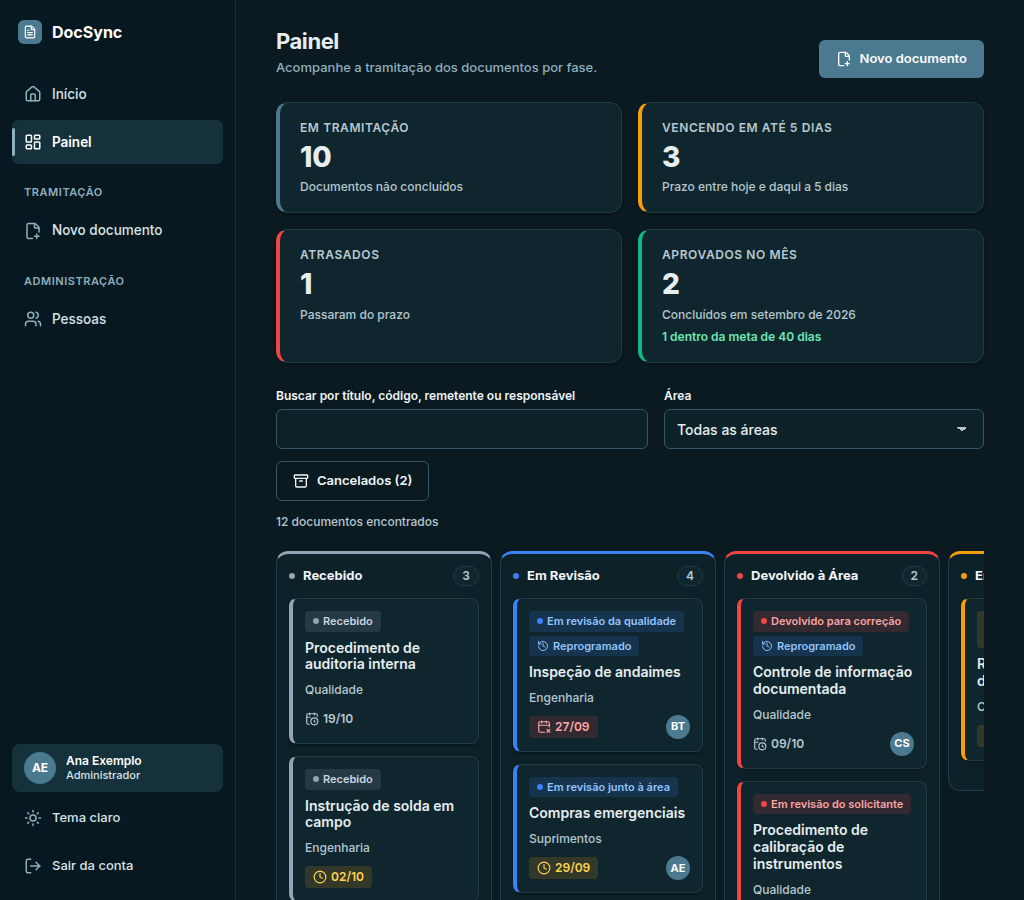
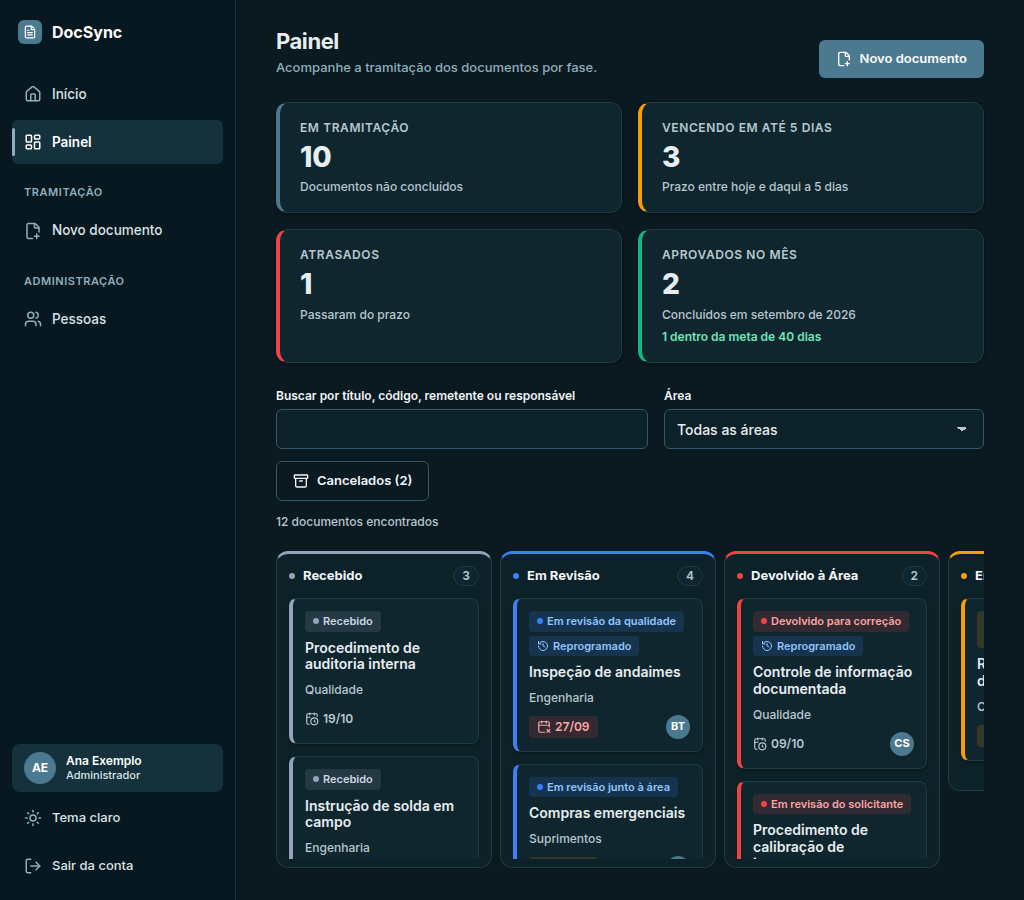
F5: correções pós-QA (rodapé enxuto, quadro com a altura da janela, ajustes)
Claude-Session: https://claude.ai/code/session_01B3gkGo9nqbChhhVxVZNRHD

diff --git a/apps/web/e2e/vitrine/vitrine.tsx b/apps/web/e2e/vitrine/vitrine.tsx
@@ -50,7 +50,7 @@ import { aplicarTema, temaSalvo } from '../../src/tema.ts';
 
 const parametros = new URLSearchParams(location.search);
 // ?perfil=Leitor|Solicitante muda o perfil simulado; ?envio=falha faz o 1º envio falhar (sem conexão).
-// Painel: ?painel=vazio|erro|carregando; ?reprog=conflito faz a 1ª reprogramação dar 409 conflito_versao.
+// Painel: ?painel=vazio|erro|carregando|muitos (muitos = 40 cartões a mais em Recebido, para a rolagem por coluna); ?reprog=conflito faz a 1ª reprogramação dar 409 conflito_versao.
 // Detalhes (F4): ?rota=/painel?documento=DOC-P6 abre direto; ?detalhes=erro|404|carregando; ?download=erro.
 // Status (F5): ?status=conflito faz a 1ª etapa dar 409 conflito_versao; ?responsaveis=erro faz a lista falhar
 // uma vez; ?desfazer=conflito faz o "Desfazer" dar 409.
@@ -116,7 +116,11 @@ let cartoes: CartaoPainel[] = modoPainel === 'vazio' ? [] : [
   cartao(1, 'PR-QUA-0010', 'Procedimento de auditoria interna', 'Recebido', qualidade, 20),
   cartao(2, null, 'Instrução de solda em campo', 'Recebido', engenharia, 3),
   cartao(3, null, 'Plano de emergência importado', 'Recebido', suprimentos, null),
-  cartao(4, 'IT-ENG-0042', 'Inspeção de andaimes', 'Em revisão da qualidade', engenharia, -2, { reprogramado: true, qtdReprogramacoes: 1, dataInicioRevisao: somarDias(HOJE, -4), ...resp('p2') }),
+  cartao(4, 'IT-ENG-0042', 'Inspeção de andaimes', 'Em revisão da qualidade', engenharia, -2, {
+    // Coerente com a regra (0011/0015): recebido há 40 dias, prazo original (recebimento + 30) venceu
+    // há 10 dias, reprogramado depois de vencido para 2 dias atrás, que também já passou.
+    dataRecebimento: somarDias(HOJE, -40), reprogramado: true, qtdReprogramacoes: 1, dataInicioRevisao: somarDias(HOJE, -38), ...resp('p2'),
+  }),
   cartao(5, 'PR-SUP-0003', 'Compras emergenciais', 'Em revisão junto à área', suprimentos, 0, { dataInicioRevisao: somarDias(HOJE, -12), ...resp('p1') }),
   cartao(6, 'PR-QUA-0007', 'Controle de informação documentada', 'Devolvido para correção', qualidade, 10, {
     qtdDevolucoes: 2, reprogramado: true, qtdReprogramacoes: 2, dataRecebimento: '2026-09-01', dataInicioRevisao: '2026-09-02', ...resp('p5'),
@@ -132,6 +136,9 @@ let cartoes: CartaoPainel[] = modoPainel === 'vazio' ? [] : [
   cartao(9, 'AT-COM-0001', 'Ata da reunião de análise crítica', 'Cancelado', comercial, 4, { statusAntesDoCancelamento: 'Em revisão da qualidade', ...resp('p2') }),
   cartao(10, null, 'Formulário antigo de entrega de EPI', 'Cancelado', suprimentos, null),
 ];
+if (modoPainel === 'muitos') {
+  for (let n = 101; n <= 140; n += 1) cartoes.push(cartao(n, null, `Documento de volume ${n - 100}`, 'Recebido', qualidade, 20));
+}
 function documentoDoCartao(c: CartaoPainel): Documento {
   return {
     ...documento(0, c.codigo, c.titulo, c.status, areas.find((a) => a.id === c.areaId)!),
@@ -195,6 +202,18 @@ eventosPorDocumento.set('DOC-P6', [
   evento('DOC-P6', 'REPROGRAMACAO', 'Devolvido para correção', null, '2026-09-16T12:45:00Z', 'Ana Exemplo', {
     detalhes: [{ campo: 'dataRevisao', antes: '2026-10-05', depois: '2026-10-09' }],
     observacao: 'Nova devolução: prazo ajustado para a correção da tabela.',
+  }),
+]);
+eventosPorDocumento.set('DOC-P4', [
+  evento('DOC-P4', 'CRIACAO', 'Recebido', null, `${somarDias(HOJE, -40)}T12:00:00Z`, 'Ana Exemplo', {
+    detalhes: [{ campo: 'dataRevisao', antes: null, depois: somarDias(HOJE, -10) }],
+  }),
+  evento('DOC-P4', 'STATUS', 'Em revisão da qualidade', 'Recebido', `${somarDias(HOJE, -38)}T13:00:00Z`, 'Bruno Teste', {
+    responsavel: 'Bruno Teste', responsavelId: 'p2',
+  }),
+  evento('DOC-P4', 'REPROGRAMACAO', 'Em revisão da qualidade', null, `${somarDias(HOJE, -9)}T14:00:00Z`, 'Bruno Teste', {
+    detalhes: [{ campo: 'dataRevisao', antes: somarDias(HOJE, -10), depois: somarDias(HOJE, -2) }],
+    observacao: 'A área de Engenharia pediu mais uma semana para anexar os laudos.',
   }),
 ]);
 eventosPorDocumento.set('DOC-P9', [

diff --git a/apps/web/e2e/painel.spec.ts b/apps/web/e2e/painel.spec.ts
@@ -253,3 +253,30 @@ test.describe('toque emulado em 768px', () => {
     }
   });
 });
+
+// Decisão 0015 item 4 (Planner): com muitos cartões, só a coluna rola na vertical; a página não.
+for (const largura of [768, 1440]) {
+  test(`rolagem por coluna em ${largura}px: a página não rola na vertical por causa do quadro`, async ({ page }) => {
+    await abrir(page, { largura, extra: '&painel=muitos' });
+    const quadro = page.getByRole('region', { name: 'Quadro de tramitação' });
+    await expect(quadro).not.toHaveAttribute('aria-busy', 'true');
+    await expect(quadro.getByRole('article', { name: 'Documento de volume 40' })).toBeAttached();
+    const medidas = await page.evaluate(() => {
+      const pagina = document.scrollingElement!;
+      const quadro = document.querySelector('[aria-label="Quadro de tramitação"]')!;
+      const listas = Array.from(quadro.querySelectorAll('ul, ol')).filter((l) => l.scrollHeight > l.clientHeight);
+      return {
+        rolagemPagina: pagina.scrollHeight - pagina.clientHeight,
+        rolagemVerticalQuadro: quadro.scrollHeight - quadro.clientHeight,
+        colunasRolando: listas.length,
+        fundoQuadro: quadro.getBoundingClientRect().bottom,
+        alturaJanela: window.innerHeight,
+      };
+    });
+    expect(medidas.rolagemPagina).toBe(0);
+    expect(medidas.rolagemVerticalQuadro).toBeLessThanOrEqual(0);
+    expect(medidas.colunasRolando).toBeGreaterThanOrEqual(1);
+    expect(medidas.fundoQuadro).toBeLessThanOrEqual(medidas.alturaJanela);
+    await semRolagemHorizontal(page);
+  });
+}

diff --git a/apps/web/src/telas/TelaPainel.module.css b/apps/web/src/telas/TelaPainel.module.css
@@ -1,5 +1,17 @@
 /* Tela Painel (contrato F3, seção 5), no estilo Vigen (decisão 0009). */
 
+/* Tela de altura cheia (decisão 0015 item 4): cabeçalho, KPIs e filtros no topo; o quadro fica com o resto. */
+.tela {
+  display: flex;
+  flex-direction: column;
+  flex: 1 1 auto;
+  min-height: 0;
+}
+
+.tela > * {
+  flex-shrink: 0;
+}
+
 /* Quatro KPIs (P-12, P-13): rótulo, valor e subtítulo coerentes. 4 → 2 → 1 colunas, só CSS. */
 .kpis {
   display: grid;
@@ -118,11 +130,19 @@
  * Quadro: 5 colunas com largura mínima (--kanban-coluna-min). Quando não cabem (tablet e telas
  * estreitas), o quadro rola na horizontal POR DENTRO; a página nunca rola (decisão 0005).
  */
+.tela > .quadro {
+  flex-shrink: 1;
+}
+
 .quadro {
   /* Ancestral posicionado: textos "visualmente-oculto" (absolute) ficam presos ao recorte do quadro. */
   position: relative;
   display: grid;
   grid-template-columns: repeat(5, minmax(var(--kanban-coluna-min), 1fr));
+  /* Uma linha com a altura do quadro: a coluna usa max-height: 100% e rola por dentro. */
+  grid-template-rows: minmax(0, 1fr);
+  flex: 1 1 0;
+  min-height: var(--kanban-coluna-altura-min);
   align-items: start;
   gap: var(--space-2);
   width: 100%;

diff --git a/apps/web/src/estilos/tokens.css b/apps/web/src/estilos/tokens.css
@@ -185,8 +185,8 @@
   /* Painel Kanban (F3): colunas com largura mínima; o quadro rola por dentro quando não cabem. */
   --kanban-coluna-min: 216px;
   --kanban-coluna-altura-min: 240px;
-  /* F5 (decisão 0015): cada coluna rola por dentro; a altura acompanha a janela, nunca o número de cartões. */
-  --kanban-coluna-altura-max: calc(100vh - var(--space-8));
+  /* F5 (decisão 0015): a coluna ocupa no máximo a altura do quadro (que é o que sobra da janela) e rola por dentro. */
+  --kanban-coluna-altura-max: 100%;
   --avatar-cartao: 24px;
   --kpi-valor: 28px;
   --esqueleto-cartao: 96px;

diff --git a/apps/web/src/telas/Casca.module.css b/apps/web/src/telas/Casca.module.css
@@ -208,6 +208,17 @@
   padding: var(--space-7) var(--space-10) var(--space-15);
 }
 
+/*
+ * Telas de altura cheia (Painel, decisão 0015 item 4): o conteúdo ocupa exatamente a janela e a
+ * tela distribui a altura por flex (min-height: 0 até o quadro); só as colunas rolam na vertical.
+ */
+.conteudo:has(> [data-altura-cheia]) {
+  display: flex;
+  flex-direction: column;
+  height: 100dvh;
+  padding-bottom: var(--space-6);
+}
+
 /* 04, 4.3: abaixo de 860px, 76px e só ícones. Texto oculto só visualmente. */
 @media (max-width: 860px) {
   .barra {

diff --git a/apps/web/src/telas/TelaPainel.tsx b/apps/web/src/telas/TelaPainel.tsx
@@ -338,7 +338,7 @@ export function TelaPainel() {
   const podeCadastrar = podeCadastrarDocumento(eu);
 
   return (
-    <>
+    <div className={estilos.tela} data-altura-cheia="">
       <header className={pagina.cabecalho}>
         <div className={pagina.cabecalhoTexto}>
           <h1 ref={titulo} className={pagina.titulo} tabIndex={-1}>
@@ -467,7 +467,7 @@ export function TelaPainel() {
         aoReativar={documentoReativado}
       />
 
-    </>
+    </div>
   );
 }
 

diff --git a/apps/web/src/componentes/ColunaKanban.module.css b/apps/web/src/componentes/ColunaKanban.module.css
@@ -41,6 +41,7 @@
   font-size: var(--fs-body-sm);
   font-weight: var(--fw-bold);
   color: var(--text-strong);
+  flex-shrink: 0;
 }
 
 .rotulo {
@@ -83,10 +84,6 @@
   font-weight: var(--fw-semibold);
   color: var(--text-secondary);
   text-align: center;
-}
-
-.titulo {
-  flex-shrink: 0;
 }
 
 /*

diff --git a/CLAUDE.md b/CLAUDE.md
@@ -85,7 +85,7 @@ Toda decisão de arquitetura, tecnologia, modelo de dados ou escopo vira um arqu
 - **Painel (F3, [contrato](docs/contratos/f3-painel-kanban.md)):** `GET /painel` com query fechada; KPIs, filtro e etiquetas de prazo por funções puras em `packages/compartilhado/src/painel.ts`, as mesmas na API e na tela; a tela carrega uma vez e filtra no cliente com `filtrarCartoes`. Largura mínima da coluna do Kanban no token `--kanban-coluna-min`. Contratos de fatia ficam em `docs/contratos/` e são aprovados pelo Eric antes do código.
 - **Arquivos na entrega (F4, decisão [0014](docs/decisoes/0014-download-nome-e-versoes-de-arquivo.md), contrato seções 10–11):** sem marca d'água nem visualizador; `baixarArquivo` para Administrador, Qualidade e Solicitante da área (Leitor não); HEAD desligado; `GET /documentos/:id` devolve `DetalheDocumento` (`arquivos`, `eventos`, `hoje`); download `GET /documentos/:id/arquivos/:arquivoId` só por `ArmazenamentoArquivos`, com ação `baixarArquivo` e `arquivoId` sempre conferido contra o documento; conteúdo entregue byte a byte como foi gravado. Nome do principal só por `nomeDownloadPrincipal` (`packages/compartilhado/src/documentos.ts`); anexos com o nome original. Cabeçalhos só por `cabecalhosDownload` (tipo pela extensão, nunca pelo `tipo_mime` gravado; `nosniff`, `no-store`, CSP sandbox). Cada entrega grava um registro imutável em `registros_acesso_arquivos` (`ACS-uuid`, autor do token; tipo `VISUALIZACAO` previsto na migração 0004 e sem uso). Linha do tempo só por `descreverEvento` (`packages/compartilhado/src/historico.ts`).
 - **Cartão do Kanban (decisão [0015](docs/decisoes/0015-cartao-estilo-planner.md)):** estilo Planner, sem botões: etiquetas, título, área, rodapé com prazo (neutro/laranja/vermelho) e responsável; ações só no modal de detalhes; colunas rolam por dentro. Reprogramar só com prazo vencido. Visão do usuário revisada pelo `agente-visao-minimalista`.
-- **Status na interface (F5):** diálogos `DialogoAtualizarEtapa`, `DialogoCancelar` e `DialogoConfirmar` (estilos em `DialogoStatus.module.css`); ações da tela por `acoesDeStatusPara`, `podeCancelar`, `podeReativar` e `podeReprogramar(eu, doc, hoje)` em `permissoes.ts` (a API decide de verdade); toast com tom `erro`; `ErroApi` mostra a mensagem do servidor só em `acao_nao_permitida` e `sem_permissao`; datas curtas por `formatarDiaMes`/`formatarMesAno`; tokens `--kanban-coluna-altura-max` e `--avatar-cartao`.
+- **Status na interface (F5):** diálogos `DialogoAtualizarEtapa`, `DialogoCancelar` e `DialogoConfirmar` (estilos em `DialogoStatus.module.css`); ações da tela por `acoesDeStatusPara`, `podeCancelar`, `podeReativar` e `podeReprogramar(eu, doc, hoje)` em `permissoes.ts` (a API decide de verdade); toast com tom `erro`; `ErroApi` mostra a mensagem do servidor só em `acao_nao_permitida` e `sem_permissao`; datas curtas por `formatarDiaMes`/`formatarMesAno`; tokens `--kanban-coluna-altura-max` e `--avatar-cartao`. Tela de altura cheia (Painel): a raiz leva `data-altura-cheia` e a casca dá `100dvh` em coluna; só as colunas rolam. Vitrine com `?painel=muitos` para testar rolagem.
 - **Contas de teste do Entra:** criadas pelo script [scripts/entra/criar-contas-teste.ps1](scripts/entra/criar-contas-teste.ps1) (só no locatário de teste; senha exibida só no terminal, nunca versionada).
 - **Testes da API:** Vitest com `app.inject`, banco PGlite em memória (clonado de um modelo migrado) e JWKS local gerado no teste ([apps/api/src/apoio-testes.ts](apps/api/src/apoio-testes.ts)). Nenhum teste chama a internet.
 

diff --git a/docs/estado-atual.md b/docs/estado-atual.md
@@ -11,13 +11,13 @@ Atualizado em 2026-09-29. Leia este arquivo logo depois do CLAUDE.md ao começar
 | F2 Modelo de dados + cadastro de documento | Validada pelo Eric em 2026-09-29 | `5f2f437` |
 | F3 Painel Kanban | Validada pelo Eric em 2026-09-29 | `7e76160`…`1338442` |
 | F4 Detalhes + histórico | Validada pelo Eric em 2026-09-29 | `8cd5ee7`…`a2ffd8a` |
-| **F5 Mudança de status** | **Servidor e interface entregues; QA aprovado com ressalvas; correções pós-QA (rodapé enxuto, rolagem do quadro) em andamento; depois validação do Eric** | `ed3d59d`…`1f9da60` |
+| **F5 Mudança de status** | **Servidor e interface entregues; QA aprovado com ressalvas; correções pós-QA feitas; aguardando validação do Eric** | `ed3d59d`…`1f9da60` |
 
 Detalhes de cada fatia: [plano-fundacao.md](plano-fundacao.md) e os relatórios em [relatorios/](relatorios/).
 
 ## F5: o que falta
 
-1. Correções pós-QA terminando (rodapé enxuto aprovado, quadro com a altura da janela, pequenos ajustes). Depois, o Eric roda o roteiro abaixo.
+1. Correções pós-QA feitas (rodapé enxuto, quadro com a altura da janela, "Cancelar documento"). O Eric roda o roteiro abaixo.
 2. Se ele disser "F5 validada": marcar no plano, CHANGELOG e seguir para a F6.
 
 Relatórios: `relatorios/2026-09-29-f5-*.md` (API, web, QA). Pendências: F9 (chave de idempotência por evento); regra "só adia" sem efeito prático depois da 0015.
